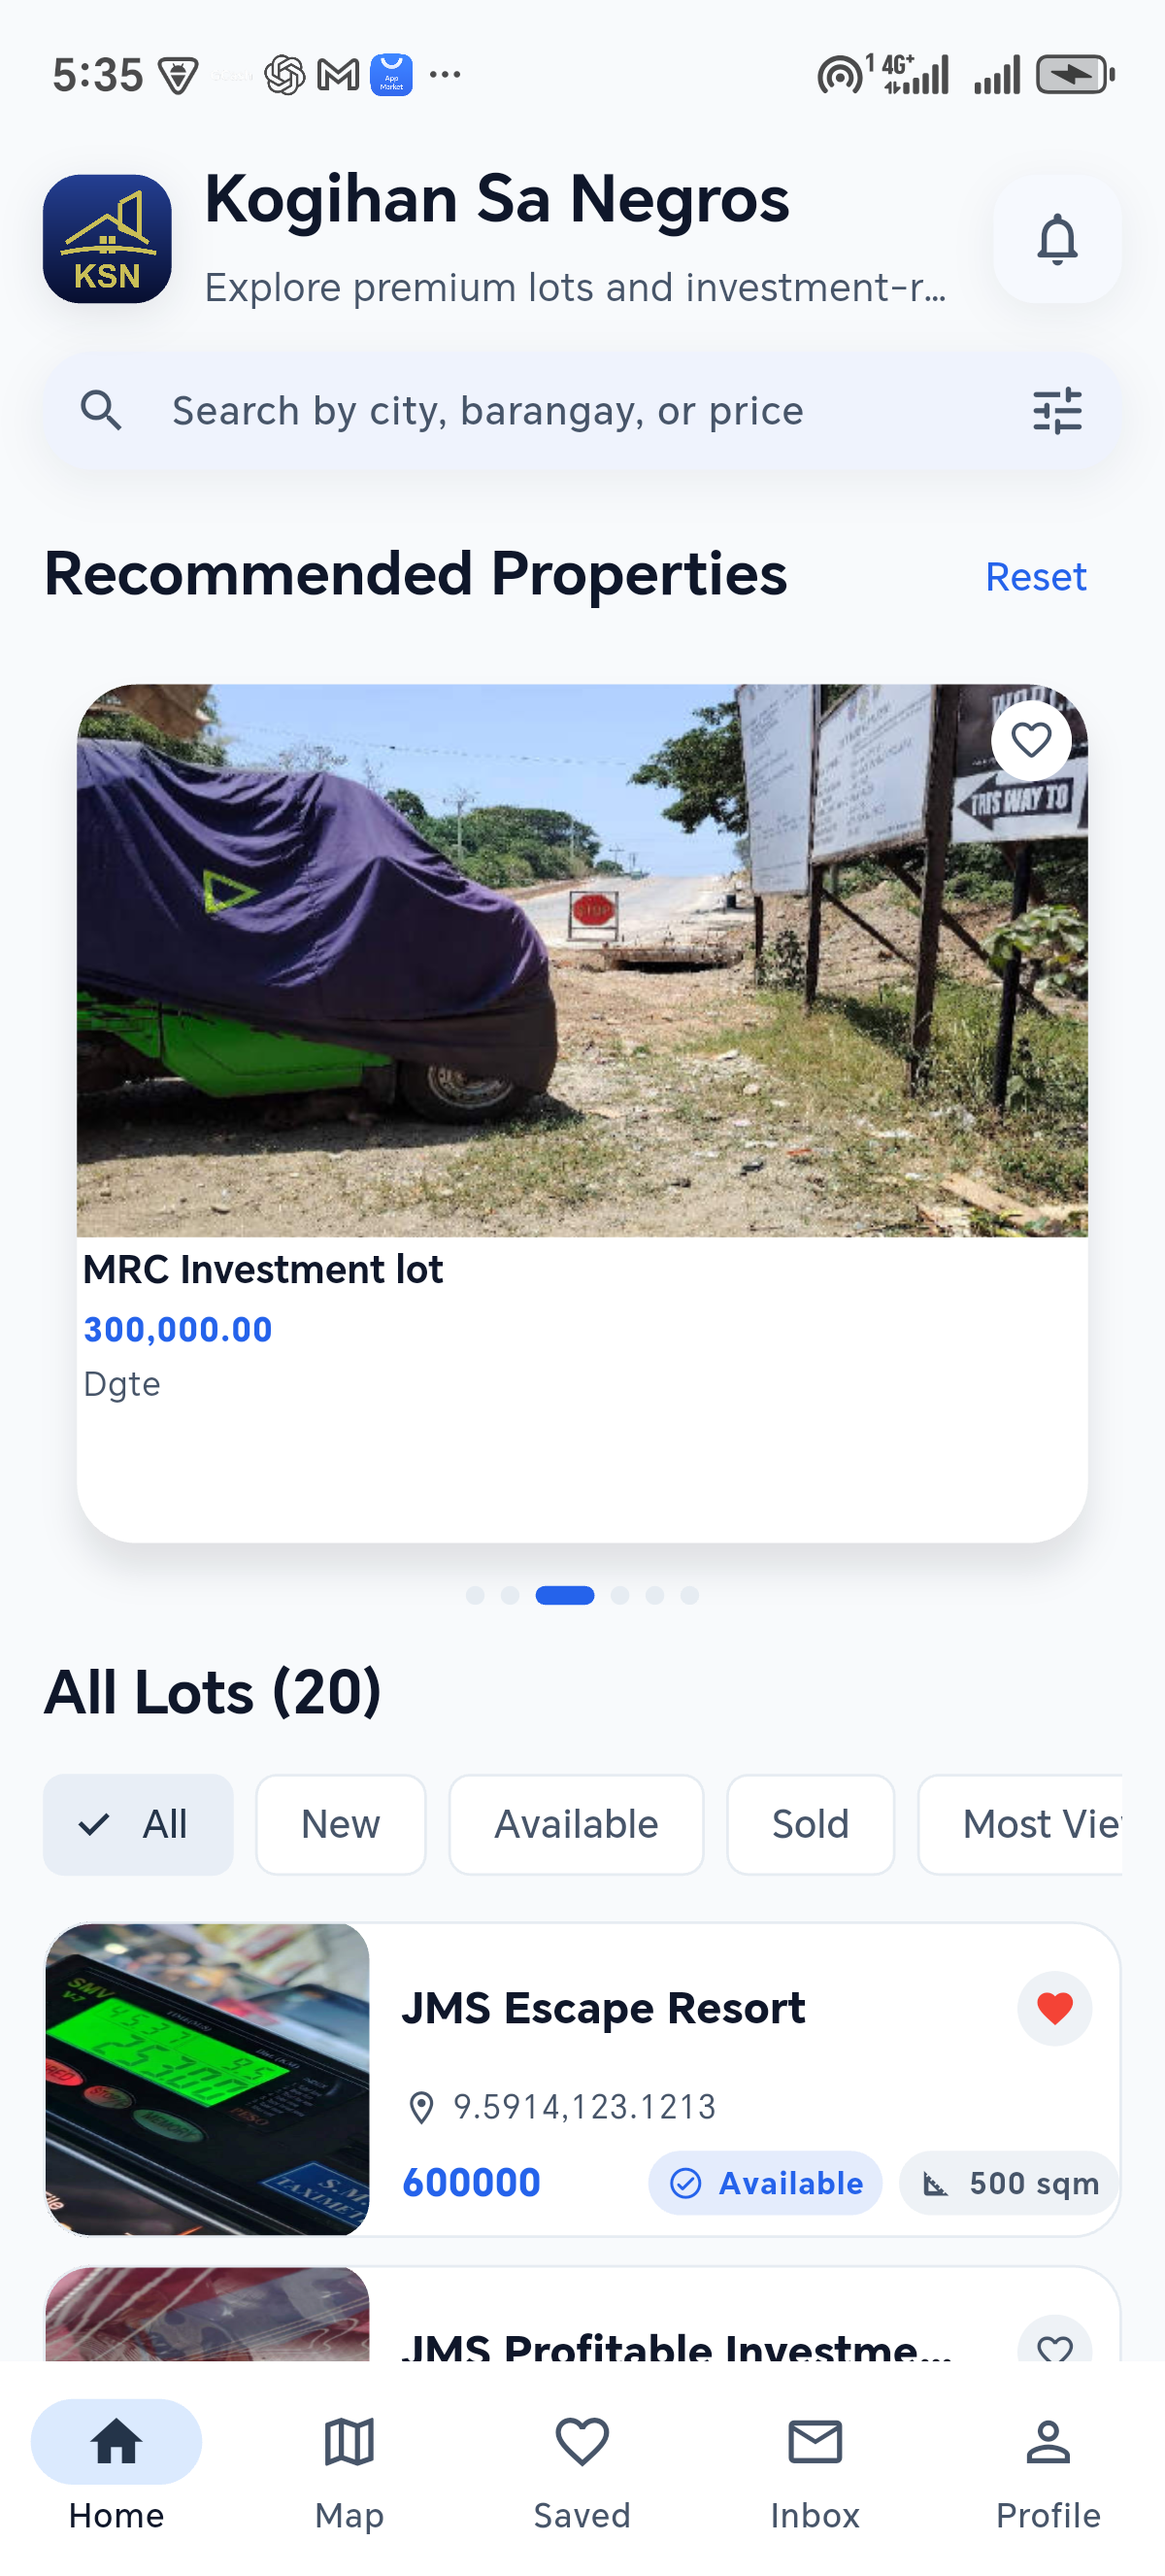
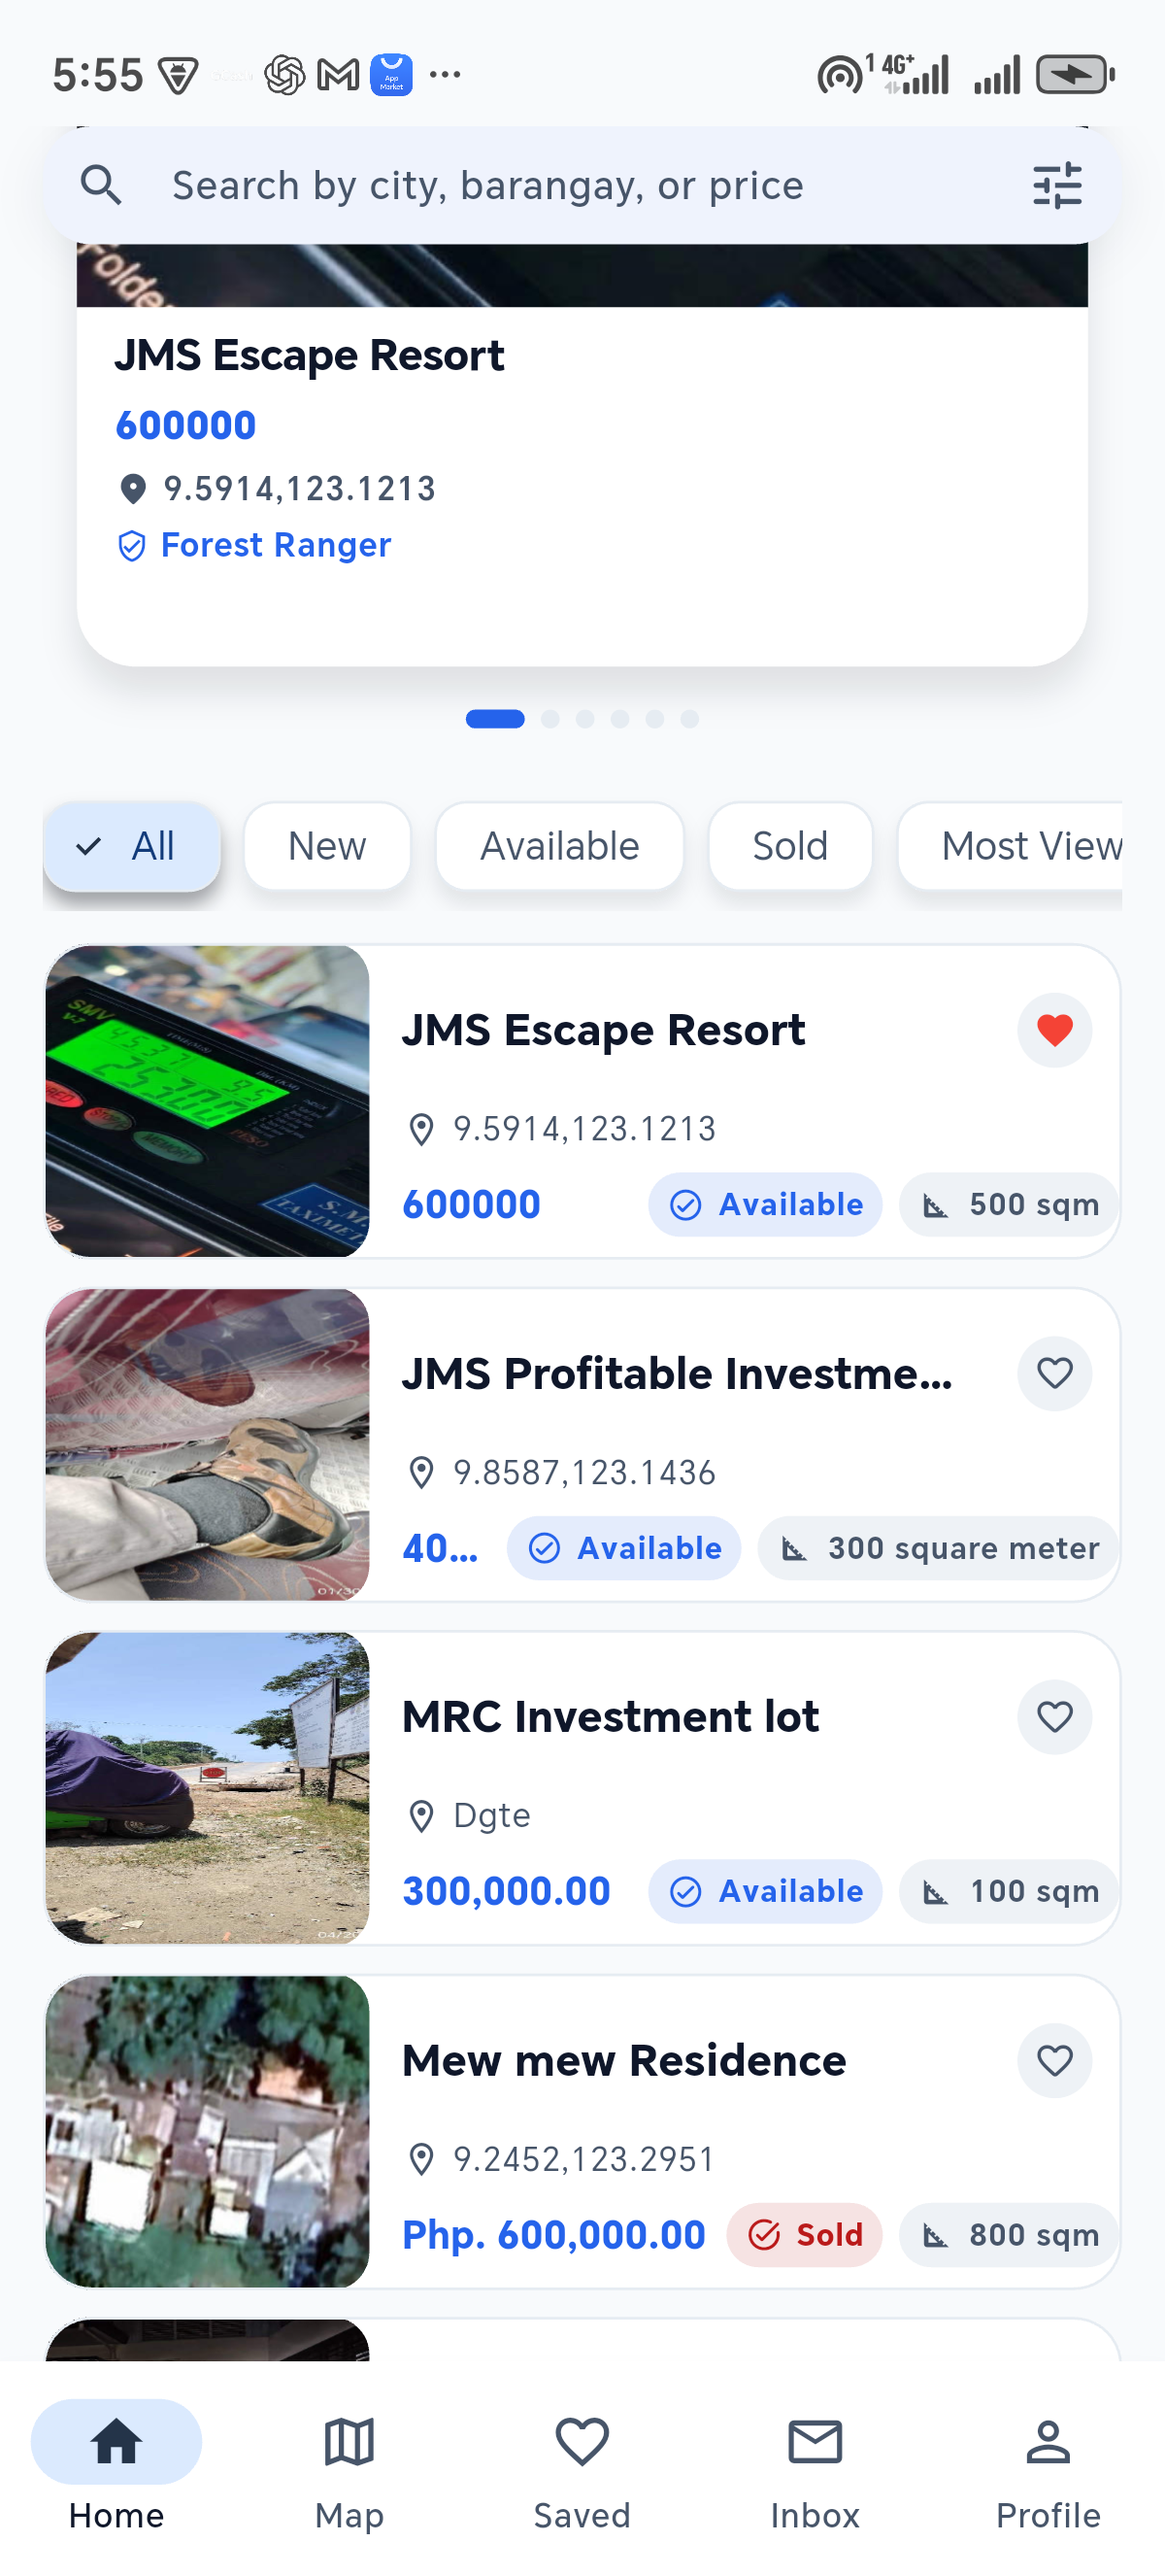
Changed:
home_tab.dart

Header height adapts on compact phones
Search sticky header height adapts on compact phones
Horizontal page padding becomes smaller on narrow screens
search_section.dart

Search input icon box and vertical padding adapt on narrow phones
top_header.dart

Logo, notification button, spacing, title size, and subtitle size adapt on compact phones

diff --git a/lib/features/home/presentation/widgets/top_header.dart b/lib/features/home/presentation/widgets/top_header.dart
@@ -124,11 +124,15 @@ class TopHeader extends StatelessWidget {
   Widget build(BuildContext context) {
     final ThemeData theme = Theme.of(context);
     final bool isLightTheme = theme.brightness == Brightness.light;
+    final bool isCompactPhone = MediaQuery.sizeOf(context).width < 360;
+    final double logoSize = isCompactPhone ? 42 : 48;
+    final double actionSize = isCompactPhone ? 42 : 48;
+    final double horizontalGap = isCompactPhone ? 10 : 12;
 
     return Row(
       children: <Widget>[
-        const KsnHeaderLogo(),
-        const SizedBox(width: 12),
+        KsnHeaderLogo(size: logoSize),
+        SizedBox(width: horizontalGap),
         Expanded(
           child: Column(
             crossAxisAlignment: CrossAxisAlignment.start,
@@ -137,26 +141,30 @@ class TopHeader extends StatelessWidget {
                 'Kogihan Sa Negros',
                 maxLines: 1,
                 overflow: TextOverflow.ellipsis,
-                style: Theme.of(context).textTheme.headlineSmall?.copyWith(
-                  fontWeight: FontWeight.w700,
-                ),
+                style:
+                    (isCompactPhone
+                            ? theme.textTheme.titleLarge
+                            : theme.textTheme.headlineSmall)
+                        ?.copyWith(fontWeight: FontWeight.w700),
               ),
-              const SizedBox(height: 6),
+              SizedBox(height: isCompactPhone ? 4 : 6),
               Text(
                 'Explore premium lots and investment-ready land.',
                 maxLines: 1,
                 overflow: TextOverflow.ellipsis,
-                style: Theme.of(context).textTheme.bodyMedium?.copyWith(
-                  color: Theme.of(context).colorScheme.onSurfaceVariant,
-                ),
+                style:
+                    (isCompactPhone
+                            ? theme.textTheme.bodySmall
+                            : theme.textTheme.bodyMedium)
+                        ?.copyWith(color: theme.colorScheme.onSurfaceVariant),
               ),
             ],
           ),
         ),
-        const SizedBox(width: 12),
+        SizedBox(width: horizontalGap),
         Container(
-          width: 48,
-          height: 48,
+          width: actionSize,
+          height: actionSize,
           decoration: BoxDecoration(
             color: isLightTheme
                 ? Color.alphaBlend(
@@ -164,7 +172,7 @@ class TopHeader extends StatelessWidget {
                     theme.cardColor,
                   )
                 : theme.cardColor,
-            borderRadius: BorderRadius.circular(16),
+            borderRadius: BorderRadius.circular(isCompactPhone ? 14 : 16),
             boxShadow: <BoxShadow>[
               BoxShadow(
                 color: isLightTheme

diff --git a/lib/features/home/presentation/screens/home_tab.dart b/lib/features/home/presentation/screens/home_tab.dart
@@ -65,6 +65,12 @@ class HomeTab extends StatelessWidget {
 
   @override
   Widget build(BuildContext context) {
+    final double screenWidth = MediaQuery.sizeOf(context).width;
+    final bool isCompactPhone = screenWidth < 360;
+    final double horizontalPadding = isCompactPhone ? 12 : 16;
+    final double toolbarHeight = isCompactPhone ? 74 : 84;
+    final double searchBottomPadding = isCompactPhone ? 12 : 16;
+    final double searchHeaderHeight = isCompactPhone ? 54 : 60;
     final List<Property> recommendedProperties = properties
         .take(6)
         .toList(growable: false);
@@ -103,18 +109,28 @@ class HomeTab extends StatelessWidget {
             floating: true,
             snap: true,
             surfaceTintColor: Colors.transparent,
-            toolbarHeight: 84,
-            flexibleSpace: const Padding(
-              padding: EdgeInsets.fromLTRB(16, 12, 16, 12),
-              child: TopHeader(),
+            toolbarHeight: toolbarHeight,
+            flexibleSpace: Padding(
+              padding: EdgeInsets.fromLTRB(
+                horizontalPadding,
+                10,
+                horizontalPadding,
+                10,
+              ),
+              child: const TopHeader(),
             ),
           ),
           SliverPersistentHeader(
             pinned: true,
             delegate: StickySearchHeaderDelegate(
-              height: 60,
+              height: searchHeaderHeight,
               child: Padding(
-                padding: const EdgeInsets.fromLTRB(16, 0, 16, 16),
+                padding: EdgeInsets.fromLTRB(
+                  horizontalPadding,
+                  0,
+                  horizontalPadding,
+                  searchBottomPadding,
+                ),
                 child: SearchSection(
                   searchController: searchController,
                   onSearchChanged: onSearchChanged,
@@ -132,7 +148,12 @@ class HomeTab extends StatelessWidget {
           ),
           if (activeFilterChips.isNotEmpty)
             SliverPadding(
-              padding: const EdgeInsets.fromLTRB(16, 0, 16, 12),
+              padding: EdgeInsets.fromLTRB(
+                horizontalPadding,
+                0,
+                horizontalPadding,
+                12,
+              ),
               sliver: SliverToBoxAdapter(
                 child: Wrap(
                   spacing: 8,
@@ -150,7 +171,7 @@ class HomeTab extends StatelessWidget {
               ),
             ),
           SliverPadding(
-            padding: const EdgeInsets.symmetric(horizontal: 16),
+            padding: EdgeInsets.symmetric(horizontal: horizontalPadding),
             sliver: SliverToBoxAdapter(
               child: SectionHeader(
                 title: 'Recommended Properties',

diff --git a/lib/features/properties/presentation/widgets/recommended_properties_carousel.dart b/lib/features/properties/presentation/widgets/recommended_properties_carousel.dart
@@ -35,7 +35,6 @@ class _RecommendedPropertiesCarouselState
   final Set<String> _warmedDetailImageIds = <String>{};
   int _currentPage = 0;
   double _pageOffset = 0;
-  static const double _activeCardHeight = 318;
   static const double _indicatorHeight = 19;
   static const double _viewportFraction = 0.90;
 
@@ -116,10 +115,24 @@ class _RecommendedPropertiesCarouselState
     if (widget.properties.isEmpty) return const SizedBox.shrink();
 
     final ThemeData theme = Theme.of(context);
+    final double screenWidth = MediaQuery.sizeOf(context).width;
+    final double textScale = MediaQuery.textScalerOf(
+      context,
+    ).scale(1).clamp(0.9, 1.15).toDouble();
     final bool hasTeamInfo = widget.properties.any(
       (property) => (property.agentTeamName ?? '').trim().isNotEmpty,
     );
-    final double activeCardHeight = hasTeamInfo ? 344 : _activeCardHeight;
+    final double baseCardHeight = (screenWidth * 0.82)
+        .clamp(292.0, 328.0)
+        .toDouble();
+    final double activeCardHeight =
+        baseCardHeight + (hasTeamInfo ? 24 : 0) + ((textScale - 1) * 42);
+    final double activeImageHeight = (screenWidth * 0.52)
+        .clamp(178.0, 210.0)
+        .toDouble();
+    final double inactiveImageHeight = (activeImageHeight * 0.74)
+        .clamp(132.0, 156.0)
+        .toDouble();
 
     return SizedBox(
       height:
@@ -166,6 +179,8 @@ class _RecommendedPropertiesCarouselState
                               onToggleSave: () => widget.onToggleSave(property),
                               onOpenDetails: () =>
                                   widget.onOpenDetails(property),
+                              activeImageHeight: activeImageHeight,
+                              inactiveImageHeight: inactiveImageHeight,
                             ),
                           ),
                         ),

diff --git a/lib/features/home/presentation/widgets/search_section.dart b/lib/features/home/presentation/widgets/search_section.dart
@@ -104,6 +104,9 @@ class SearchSection extends StatelessWidget {
   Widget build(BuildContext context) {
     final ThemeData theme = Theme.of(context);
     final bool isLightTheme = theme.brightness == Brightness.light;
+    final bool isCompactPhone = MediaQuery.sizeOf(context).width < 360;
+    final double iconBoxSize = isCompactPhone ? 40 : 44;
+    final double verticalPadding = isCompactPhone ? 8 : 10;
     final int activeFilterCount = <String?>[
       selectedLocation,
       selectedLotSize,
@@ -149,23 +152,26 @@ class SearchSection extends StatelessWidget {
             fontWeight: FontWeight.w500,
           ),
           prefixIcon: Icon(Icons.search, color: mutedColor, size: 21),
-          prefixIconConstraints: const BoxConstraints(
-            minWidth: 44,
-            minHeight: 44,
+          prefixIconConstraints: BoxConstraints(
+            minWidth: iconBoxSize,
+            minHeight: iconBoxSize,
           ),
           suffixIcon: IconButton(
             tooltip: 'Filters',
             onPressed: () => _showFilterSheet(context),
-            constraints: const BoxConstraints(minWidth: 44, minHeight: 44),
+            constraints: BoxConstraints(
+              minWidth: iconBoxSize,
+              minHeight: iconBoxSize,
+            ),
             icon: Badge(
               isLabelVisible: activeFilterCount > 0,
               label: Text(activeFilterCount.toString()),
               child: Icon(Icons.tune_rounded, color: mutedColor),
             ),
           ),
-          contentPadding: const EdgeInsets.symmetric(
+          contentPadding: EdgeInsets.symmetric(
             horizontal: 18,
-            vertical: 10,
+            vertical: verticalPadding,
           ),
           border: OutlineInputBorder(
             borderRadius: BorderRadius.circular(18),

diff --git a/lib/features/properties/presentation/widgets/recommended_property_card.dart b/lib/features/properties/presentation/widgets/recommended_property_card.dart
@@ -9,6 +9,8 @@ class RecommendedPropertyCard extends StatelessWidget {
   final bool isActive;
   final VoidCallback onToggleSave;
   final VoidCallback onOpenDetails;
+  final double activeImageHeight;
+  final double inactiveImageHeight;
 
   const RecommendedPropertyCard({
     super.key,
@@ -17,6 +19,8 @@ class RecommendedPropertyCard extends StatelessWidget {
     required this.isActive,
     required this.onToggleSave,
     required this.onOpenDetails,
+    required this.activeImageHeight,
+    required this.inactiveImageHeight,
   });
 
   @override
@@ -42,7 +46,7 @@ class RecommendedPropertyCard extends StatelessWidget {
                 buildPropertyDetailsImage(
                   context: context,
                   property: property,
-                  height: isActive ? 206 : 152,
+                  height: isActive ? activeImageHeight : inactiveImageHeight,
                   useThumbnail: true,
                   fallbackChild: const Center(
                     child: Icon(

diff --git a/lib/app/land_finder_app.dart b/lib/app/land_finder_app.dart
@@ -19,6 +19,7 @@ class LandFinderApp extends StatelessWidget {
         return ValueListenableBuilder<double>(
           valueListenable: appFontScaleNotifier,
           builder: (context, fontScale, child) {
+            final double safeFontScale = fontScale.clamp(0.9, 1.15).toDouble();
             return MaterialApp(
               title: 'Land Finder',
               debugShowCheckedModeBanner: false,
@@ -29,7 +30,7 @@ class LandFinderApp extends StatelessWidget {
                 return MediaQuery(
                   data: MediaQuery.of(
                     context,
-                  ).copyWith(textScaler: TextScaler.linear(fontScale)),
+                  ).copyWith(textScaler: TextScaler.linear(safeFontScale)),
                   child: ValueListenableBuilder<bool>(
                     valueListenable: appStarryBackgroundNotifier,
                     builder: (context, starryBackgroundEnabled, child) {
